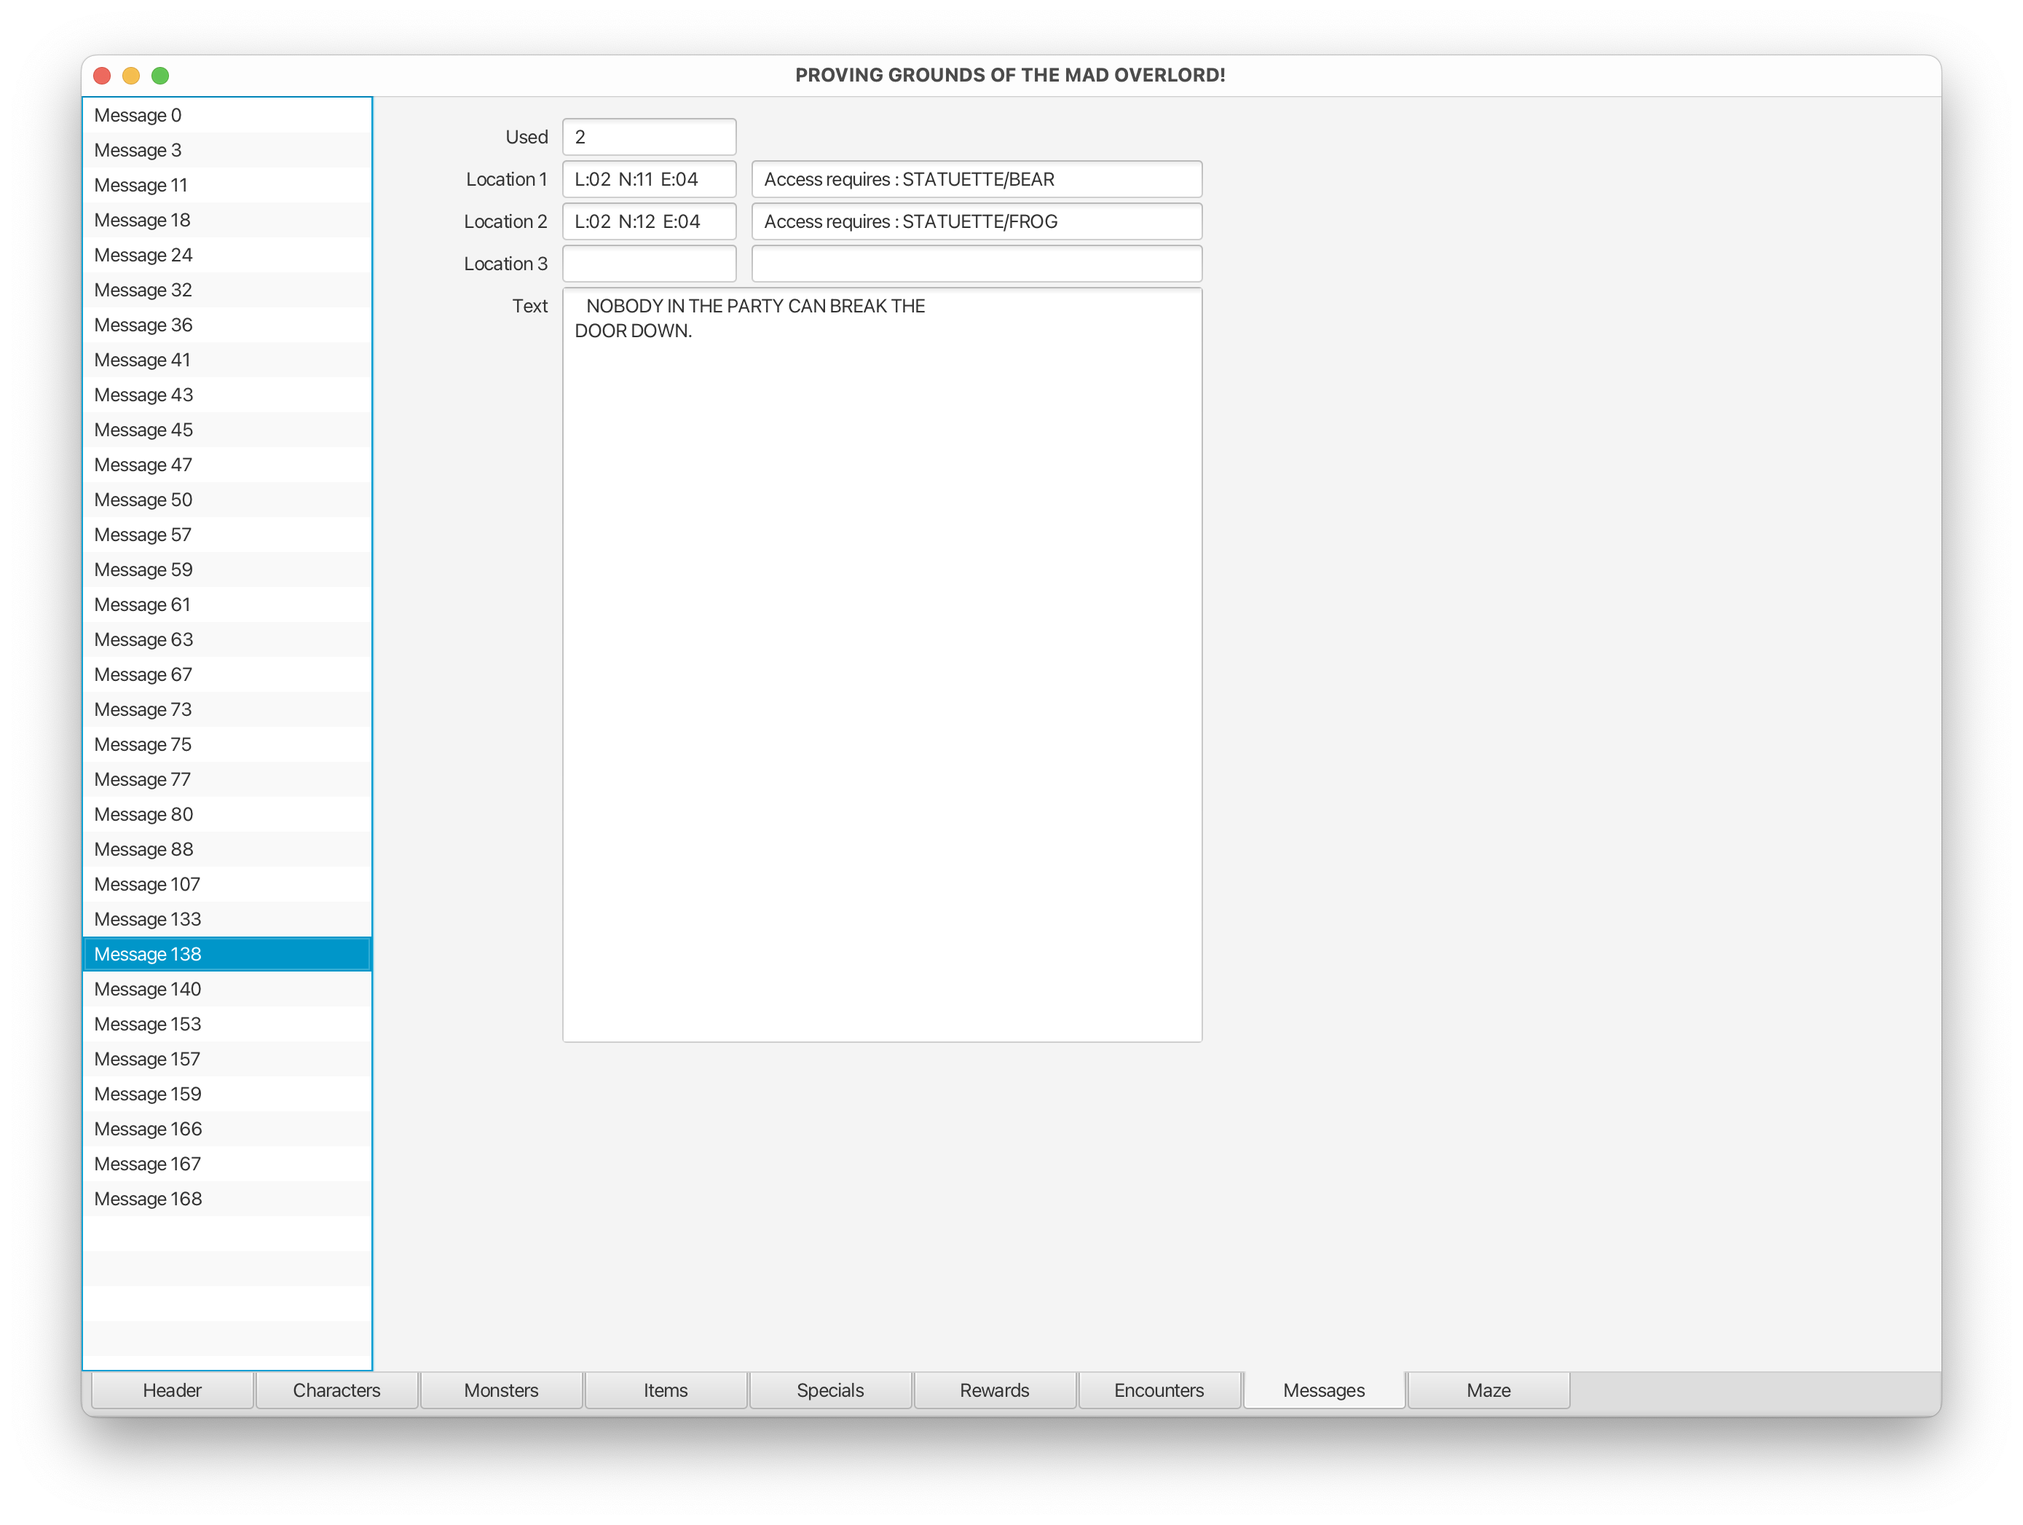
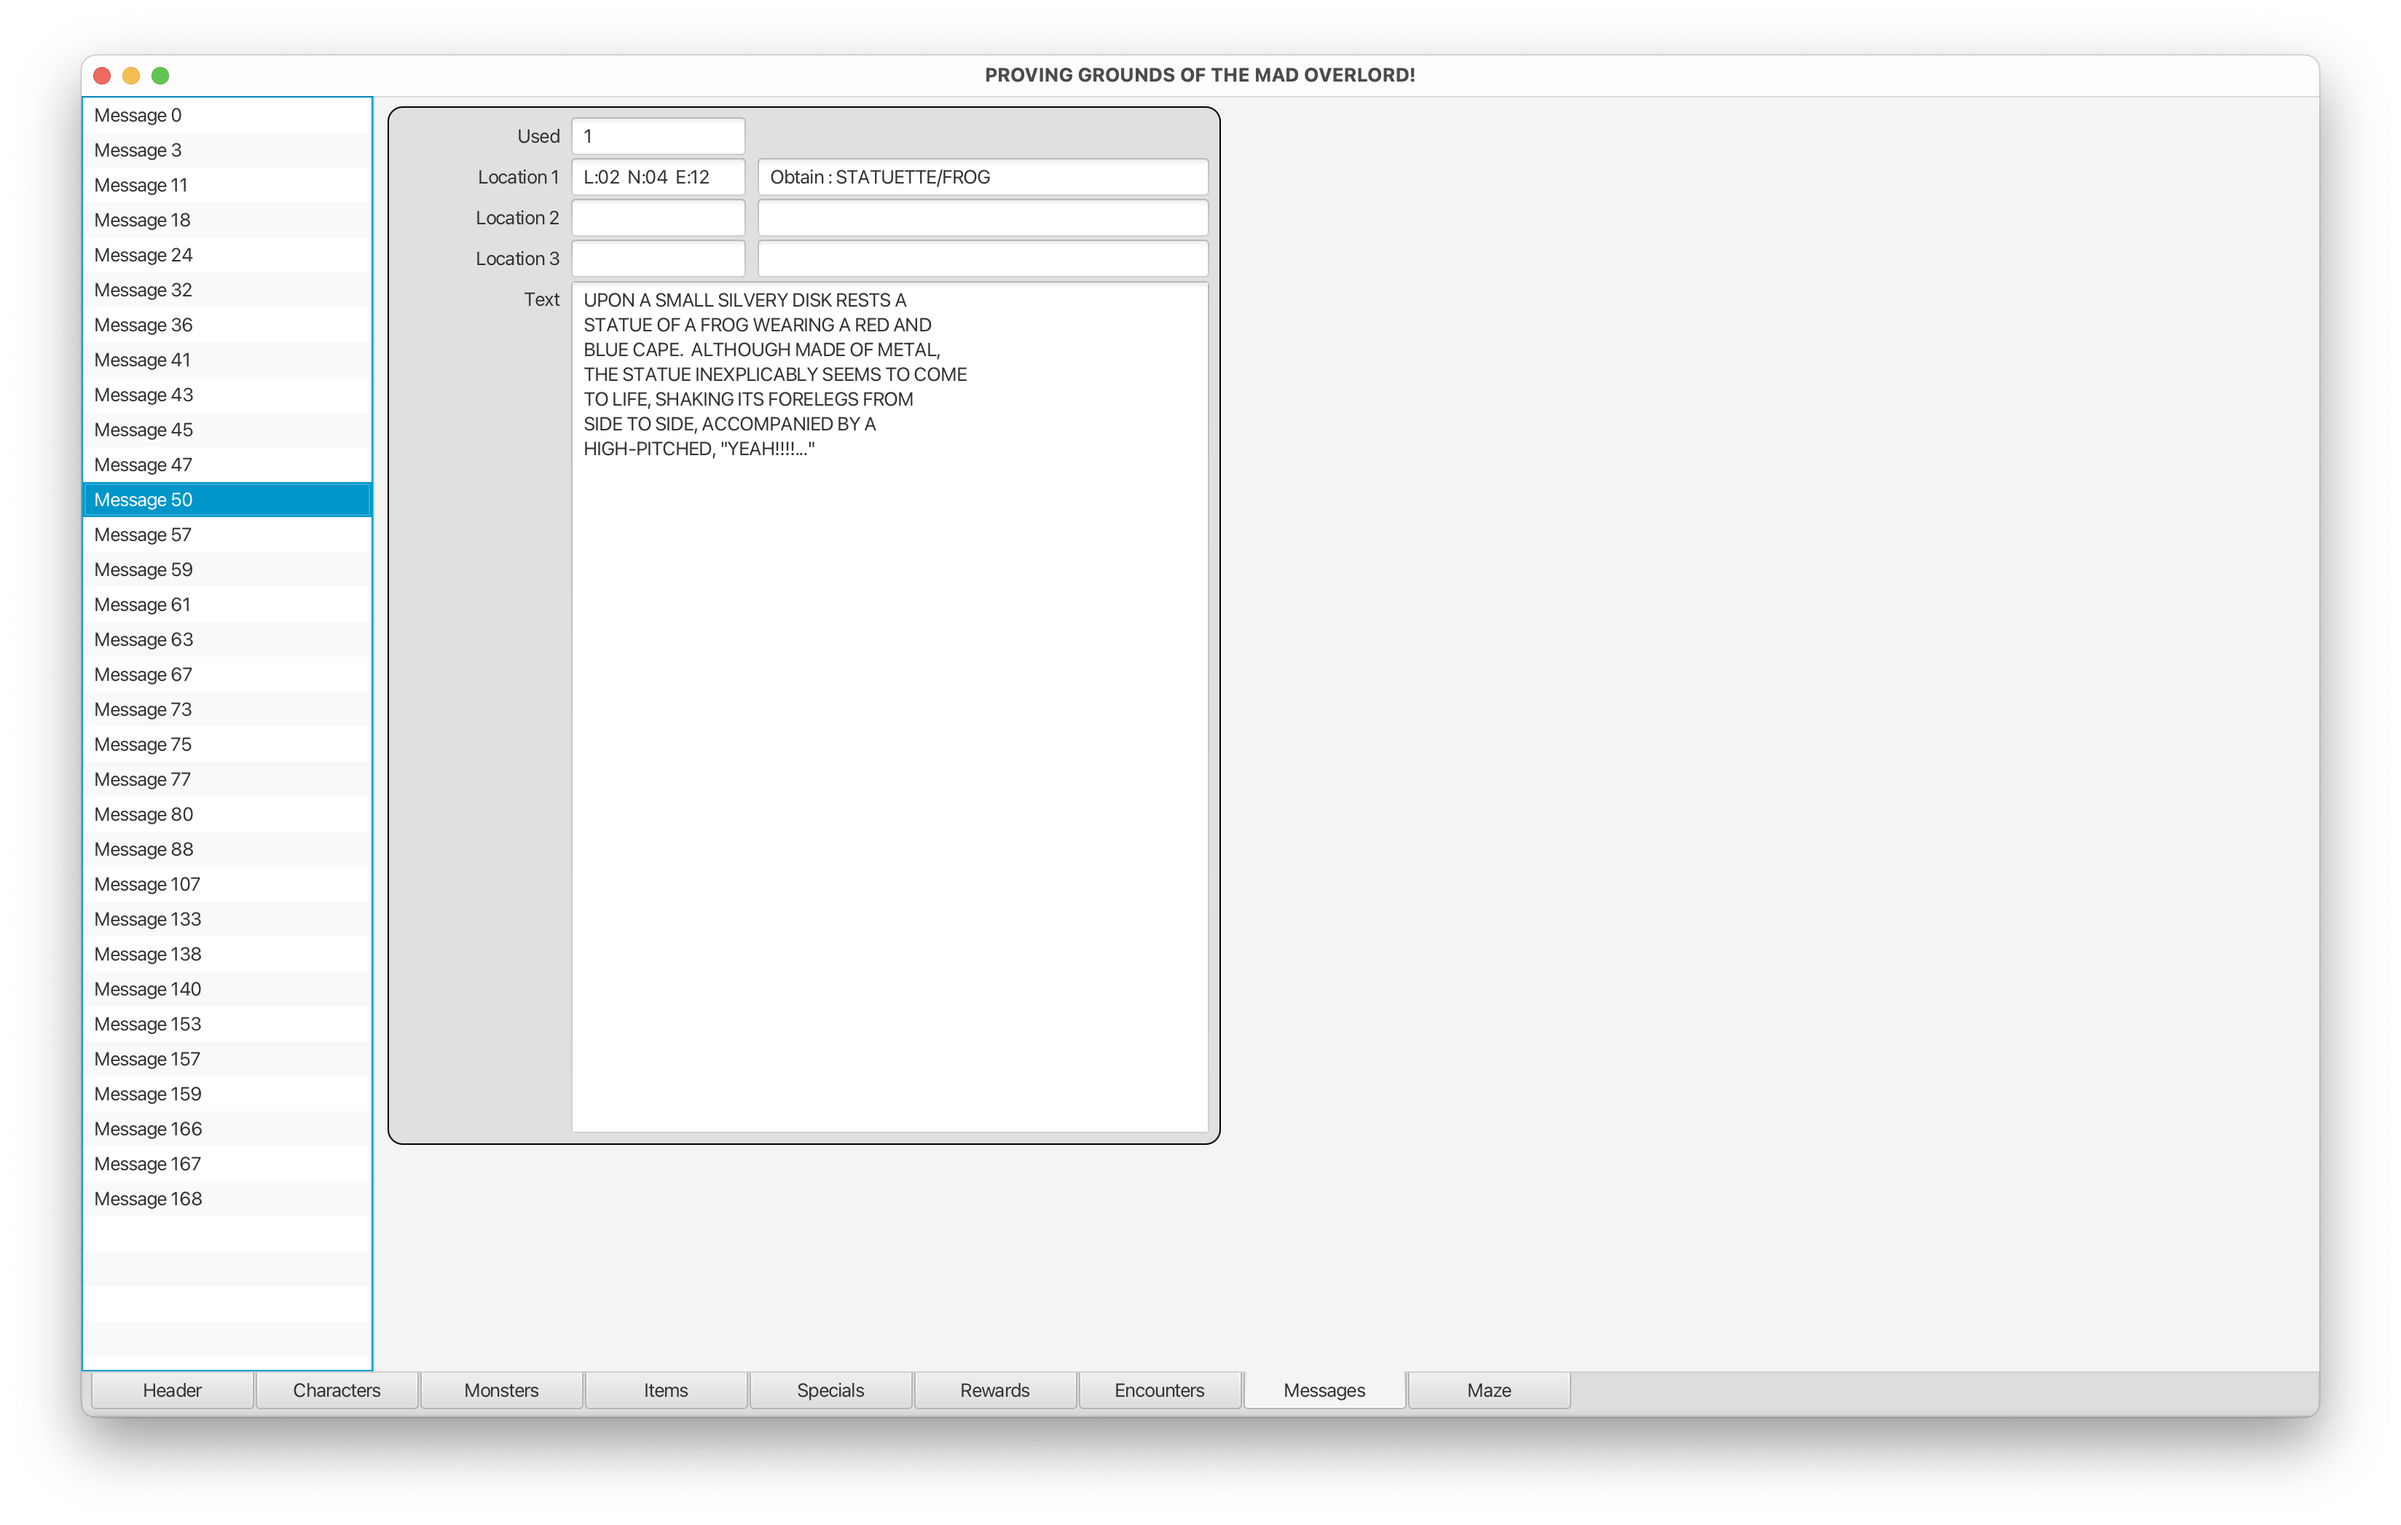
updated messages pane

diff --git a/src/com/bytezone/wizardry/MessagesRootPane.java b/src/com/bytezone/wizardry/MessagesRootPane.java
@@ -1,30 +1,14 @@
 package com.bytezone.wizardry;
 
-import java.util.List;
-
-import com.bytezone.appbase.DataLayout;
 import com.bytezone.appbase.DataPane;
-import com.bytezone.wizardry.data.Location;
 import com.bytezone.wizardry.data.Message;
-import com.bytezone.wizardry.data.Special;
 import com.bytezone.wizardry.data.WizardryData;
-
-import javafx.geometry.HPos;
-import javafx.geometry.Pos;
-import javafx.scene.control.TextArea;
-import javafx.scene.control.TextField;
 
 // -----------------------------------------------------------------------------------//
 public class MessagesRootPane extends DataPane
 // -----------------------------------------------------------------------------------//
 {
-  private WizardryData wizardry;
-
-  TextField[] textOut1;
-  TextField[] textOut2;
-  TextField[] textOut3;
-
-  TextArea textArea;
+  MessagesPane messagesPane = new MessagesPane ();
 
   // ---------------------------------------------------------------------------------//
   public MessagesRootPane ()
@@ -32,56 +16,25 @@ public class MessagesRootPane extends DataPane
   {
     super (3, 25);                             // columns, rows
 
-    setColumnConstraints (110, 120, 310);
-    setPadding (defaultInsets);
-    //    setGridLinesVisible (true);
+    setAllColumnConstraints (10);             // all columns 10 pixels wide
+    setPadding (defaultInsets);               // only the root pane has insets
 
-    String[] labels = { "Used", "Location 1", "Location 2", "Location 3", "Text" };
-    createLabelsVertical (labels, 0, 0, HPos.RIGHT);
+    setLayout (messagesPane, 0, 0);
 
-    textOut1 = createTextFields (new DataLayout (1, 0, 1, Pos.CENTER_LEFT));
-    DataLayout dataLayout = new DataLayout (1, 1, 3, Pos.CENTER_LEFT);
-    textOut2 = createTextFields (dataLayout);
-    textOut3 = createTextFields (dataLayout);
-
-    textArea = createTextArea (new DataLayout (1, 4, 21, Pos.CENTER_LEFT, 2));
+    getChildren ().addAll (messagesPane);
   }
 
   // ---------------------------------------------------------------------------------//
   public void setWizardry (WizardryData wizardry)
   // ---------------------------------------------------------------------------------//
   {
-    this.wizardry = wizardry;
-
-    reset (textOut1);
-    reset (textOut2);
-    reset (textOut3);
-
-    textArea.setText ("");
+    messagesPane.setWizardry (wizardry);
   }
 
   // ---------------------------------------------------------------------------------//
   public void update (Message message)
   // ---------------------------------------------------------------------------------//
   {
-    for (TextField textField : textOut2)
-      textField.setText ("");
-    for (TextField textField : textOut3)
-      textField.setText ("");
-
-    List<Location> locations = message.getLocations ();
-
-    setText (textOut1[0], locations.size ());
-
-    for (int i = 0; i < 3; i++)
-      if (locations.size () > i)
-      {
-        setText (textOut2[i], locations.get (i));
-        Special special = wizardry.getSpecial (locations.get (i));
-        if (special != null)
-          setText (textOut3[i], special.getText ());
-      }
-
-    textArea.setText (message.getText ());
+    messagesPane.update (message);
   }
 }

diff --git a/src/com/bytezone/wizardry/MessagesPane.java b/src/com/bytezone/wizardry/MessagesPane.java
@@ -1,0 +1,85 @@
+package com.bytezone.wizardry;
+
+import java.util.List;
+
+import com.bytezone.appbase.BorderedDataPane;
+import com.bytezone.appbase.DataLayout;
+import com.bytezone.wizardry.data.Location;
+import com.bytezone.wizardry.data.Message;
+import com.bytezone.wizardry.data.Special;
+import com.bytezone.wizardry.data.WizardryData;
+
+import javafx.geometry.HPos;
+import javafx.geometry.Pos;
+import javafx.scene.control.TextArea;
+import javafx.scene.control.TextField;
+
+// -----------------------------------------------------------------------------------//
+public class MessagesPane extends BorderedDataPane
+// -----------------------------------------------------------------------------------//
+{
+  TextField[] textOut1;
+  TextField[] textOut2;
+  TextField[] textOut3;
+
+  TextArea textArea;
+
+  WizardryData wizardry;
+
+  // ---------------------------------------------------------------------------------//
+  public MessagesPane ()
+  // ---------------------------------------------------------------------------------//
+  {
+    super (3, 25);                              // columns, rows
+
+    setColumnConstraints (110, 120, 310);
+
+    String[] labels = { "Used", "Location 1", "Location 2", "Location 3", "Text" };
+    createLabelsVertical (labels, 0, 0, HPos.RIGHT);
+
+    textOut1 = createTextFields (new DataLayout (1, 0, 1, Pos.CENTER_LEFT));
+    DataLayout dataLayout = new DataLayout (1, 1, 3, Pos.CENTER_LEFT);
+    textOut2 = createTextFields (dataLayout);
+    textOut3 = createTextFields (dataLayout);
+
+    textArea = createTextArea (new DataLayout (1, 4, 21, Pos.CENTER_LEFT, 2));
+  }
+
+  // ---------------------------------------------------------------------------------//
+  public void setWizardry (WizardryData wizardry)
+  // ---------------------------------------------------------------------------------//
+  {
+    this.wizardry = wizardry;
+
+    reset (textOut1);
+    reset (textOut2);
+    reset (textOut3);
+
+    textArea.setText ("");
+  }
+
+  // ---------------------------------------------------------------------------------//
+  void update (Message message)
+  // ---------------------------------------------------------------------------------//
+  {
+    for (TextField textField : textOut2)
+      textField.setText ("");
+    for (TextField textField : textOut3)
+      textField.setText ("");
+
+    List<Location> locations = message.getLocations ();
+
+    setText (textOut1[0], locations.size ());
+
+    for (int i = 0; i < 3; i++)
+      if (locations.size () > i)
+      {
+        setText (textOut2[i], locations.get (i));
+        Special special = wizardry.getSpecial (locations.get (i));
+        if (special != null)
+          setText (textOut3[i], special.getText ());
+      }
+
+    textArea.setText (message.getText ());
+  }
+}
